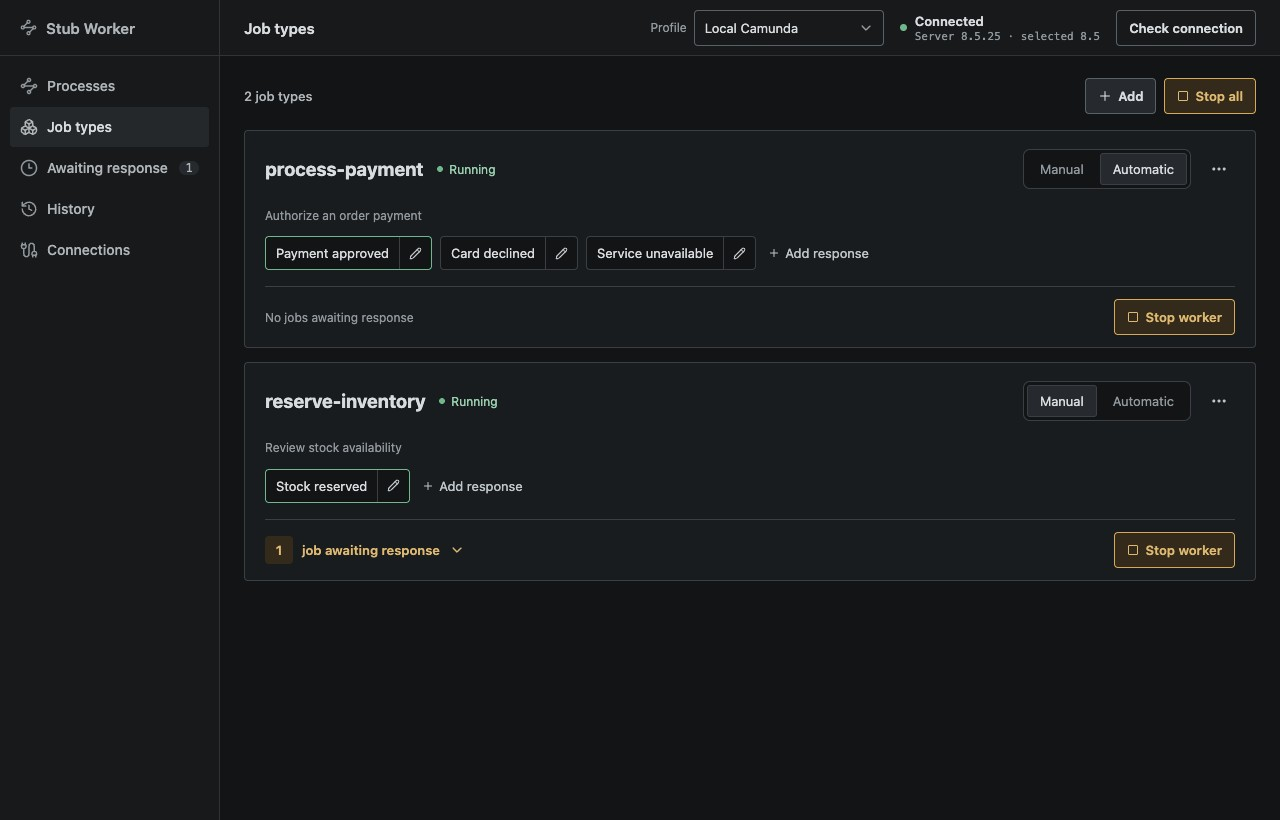
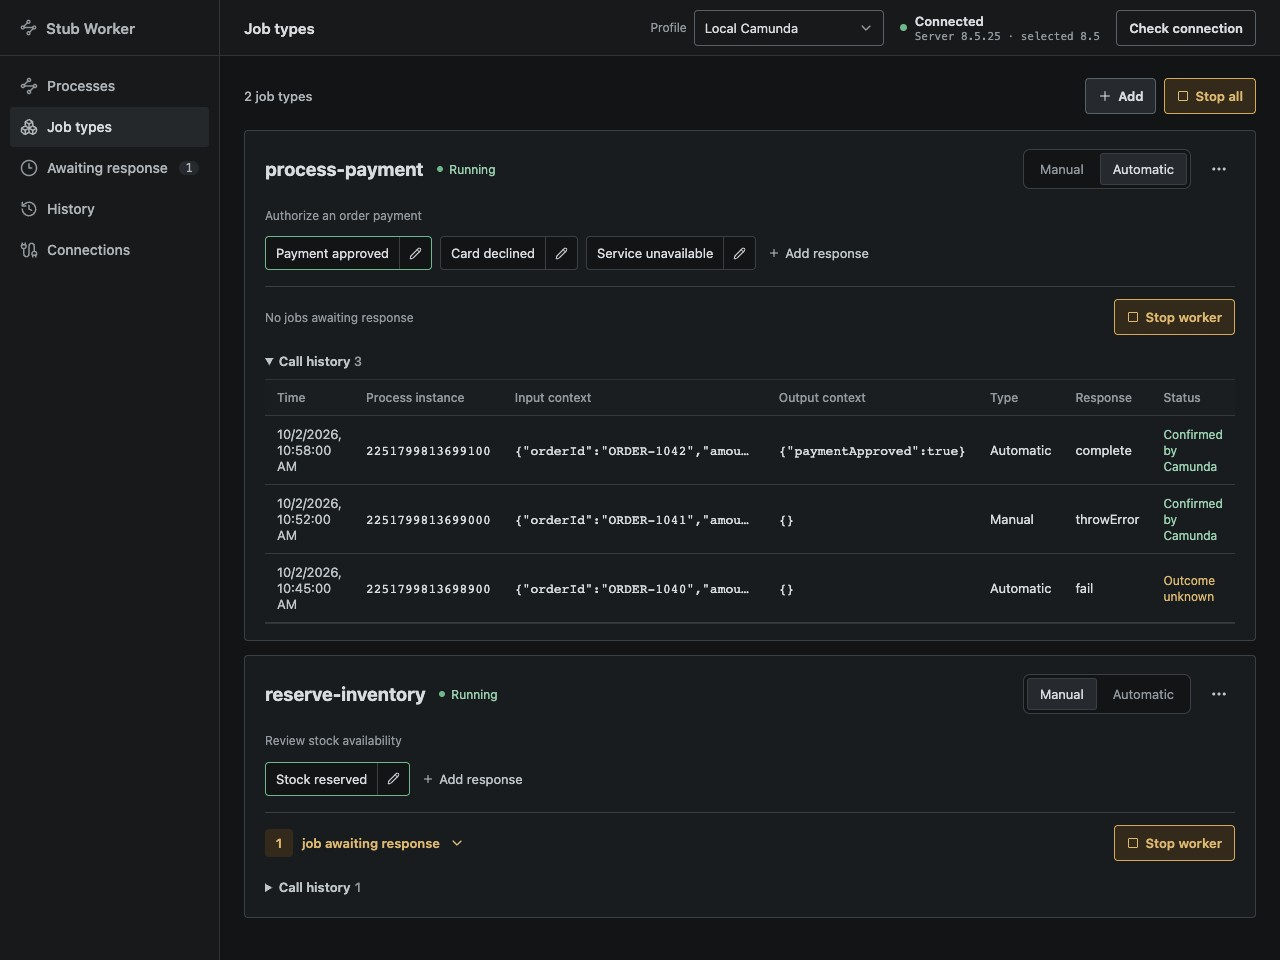
docs: prepare call history documentation for v0.8.0 (#27)

diff --git a/site/index.html b/site/index.html
@@ -24,7 +24,7 @@
         </div>
         <p class="platforms">macOS · Windows · Linux</p>
       </section>
-      <img class="screenshot" src="assets/processes.jpg" width="1280" height="960" alt="Processes screen after deploying a BPMN file without Operate, with shared responses for payment and inventory tasks">
+      <img class="screenshot" src="assets/processes.jpg" width="1280" height="1040" alt="Processes screen after deploying a BPMN file without Operate, with shared responses and call history controls for payment and inventory tasks">
       <div class="features">
         <p><strong>Choose the outcome.</strong> Return success, throw a business error, or simulate a technical failure.</p>
         <p><strong>Control the response.</strong> Run automatically or inspect and respond to jobs manually.</p>
@@ -40,6 +40,11 @@
         <h2 id="manual-title">Inspect a job before you respond.</h2>
         <p>Start manual workers directly from a process task or with Start all, even without saved responses. Review input variables and choose a saved response, or select Custom to edit response JSON before sending it. For automatic mode, add and select a saved response. Review response attempts in History.</p>
         <figure><img class="screenshot" src="assets/manual-response.jpg" width="1280" height="820" loading="lazy" alt="Awaiting response screen with order variables and an editable inventory response"><figcaption>Manual responses let you control the next step in your process.</figcaption></figure>
+      </section>
+      <section class="feature-section" aria-labelledby="history-title">
+        <h2 id="history-title">See what each worker received and sent.</h2>
+        <p>Expand Call history on a worker in Processes or Job types to review its latest 50 entries, including calls without a response attempt. See input and output variables, the process instance, response command, and send status. Select a row to inspect the activation and its send attempts.</p>
+        <figure><img class="screenshot" src="assets/job-types.jpg" width="1280" height="960" loading="lazy" alt="Job types screen with expanded payment call history showing input and output variables, response commands, and send statuses"><figcaption>Call history is shared by job type across the current connection. Use History to search and filter all retained records.</figcaption></figure>
       </section>
       <section class="feature-section" aria-labelledby="connections-title">
         <h2 id="connections-title">Set up your connection once.</h2>

diff --git a/.agents/skills/release-project/SKILL.md b/.agents/skills/release-project/SKILL.md
@@ -31,7 +31,7 @@ Inspect the actual screenshot images and compare them with the current app. Imag
 
 Refresh only stale or misleading screenshots. Capture the current app with illustrative sample data and masked credentials, using a disposable profile/database. Do not expose real tokens, passwords, or private process data. Use real UI captures, not generated imitations. Copy each refreshed image to both locations and check that the copies match. Update captions, alt text, and references if filenames or content change. If capture is unavailable, explain what remains unverified rather than claiming completion.
 
-Preview with `python3 -m http.server 4173 --directory site` from the repository root (choose another port if occupied). Inspect the rendered site at desktop and narrow widths, Markdown image references, navigation, relative asset URLs, and download links. The site needs no build step. Run `git diff --check`. For app changes or app-backed capture, use the relevant checks from CI: `npm ci`, `npm run check`, and `npm run build` in `frontend/`, and `go test -race ./...` at the root. Report checks actually run and any limitations.
+Preview with `python3 -m http.server 4173 --directory site` from the repository root (choose another port if occupied). Inspect the rendered site at desktop and narrow widths, Markdown image references, navigation, relative asset URLs, and download links. The site needs no build step. Run `git diff --check`. For app changes, use the relevant checks from CI: `npm ci`, `npm run check`, and `npm run build` in `frontend/`, and `go test -race ./...` at the root. When capturing an unchanged app, reuse a verified build or build what the capture needs; documentation and screenshot changes alone do not require repeating the full app check suite. Report checks actually run or reused and any limitations.
 
 ## 2. Present changes for user review
 
@@ -47,17 +47,21 @@ After approval, commit only the reviewed documentation and screenshot files, pus
 
 Keep following the PR until it is merged or a specific blocker needs user action. Use bounded CI polling so progress can still be communicated. Inspect failed job logs and fix failures caused by this PR within scope. Rerun a clearly transient failure once; do not loop on unchanged failures or modify product behavior just to obtain a green check.
 
-Before merging, verify that all required checks and the complete `build.yml` run succeeded for the latest PR head. Currently that means the test job and desktop builds for Windows x64, macOS x64, macOS arm64, and Linux x64. Pending, cancelled, missing, and failed checks are not success. Recheck after every new commit or conflict resolution. Honor required reviews and branch protection; never bypass them with an admin merge.
+Before merging, verify all checks required by branch protection for the latest PR head. Honor required reviews and branch protection; never bypass them with an admin merge. Pending, cancelled, missing, and failed required checks are not success.
+
+For changes affecting app source, dependencies, desktop build assets, or build/release workflows, require the complete `build.yml` run for the latest PR head: the test job and desktop builds for Windows x64, macOS x64, macOS arm64, and Linux x64. Recheck after every new commit or conflict resolution affecting those inputs.
+
+For documentation-only changes (prose, screenshots, the static promo site, or skill instructions), reuse a successful default-branch `build.yml` run instead of requiring another full app CI pass. Record its tested SHA and run URL, confirm its test job and all four desktop builds passed, and inspect the diff from that SHA to the proposed release source to prove that app and build inputs are unchanged. A build omitted by documentation path filters is expected and is not a blocker unless branch protection requires it. Do not change workflows or manufacture app edits just to trigger CI for documentation. If app or build inputs changed since the tested SHA, require a new passing build covering those changes.
 
 Merge using a repository-supported method and pin the expected PR head with `gh pr merge --match-head-commit <sha>` where available. Verify the PR is actually merged, recording its merge commit. If merge queues are required, follow the queue to completion. An enabled auto-merge setting is not a completed merge.
 
-Wait for the default-branch build covering the merged source. If site files changed, also verify the Pages deployment and live site update. If a deployment or CI failure persists, report its link and blocker before releasing. If no documentation PR was needed, apply the same CI verification to the default-branch source selected for release.
+After merging, verify app CI evidence for the default-branch release source using the rules above; reuse the recorded passing build when intervening changes are documentation-only. If site files changed, verify the Pages deployment and live site update. If a required deployment or CI failure persists, report its link and blocker before releasing. If no documentation PR was needed, apply the same CI verification to the default-branch source selected for release.
 
 ## 5. Dispatch and verify the release
 
 Re-read the remote release state immediately before dispatch. Confirm the chosen version is still the next minor/patch version and that its tag and release do not already exist. If another release advanced the baseline, recompute the version using the requested bump and announce the new value. Inspect any existing tag, draft, release, or in-progress run for the intended version before acting; resume a known attempt rather than overwriting an unrelated release.
 
-Confirm the default branch includes the documentation merge and that its current head has passing CI. The current workflow creates a new tag from the repository's default branch, even when a different dispatch ref is used. Check for branch movement, assess newly included changes for documentation accuracy, and wait for their CI before dispatching. Do not claim that specifying `--ref` pins the release source.
+Confirm the default branch includes the documentation merge and has the required checks and app CI evidence described in section 4. The current workflow creates a new tag from the repository's default branch, even when a different dispatch ref is used. Check for branch movement and assess newly included changes for documentation accuracy. Documentation-only movement can reuse the recorded passing app build; changes to app or build inputs require passing CI covering those changes before dispatching. Do not claim that specifying `--ref` pins the release source.
 
 With verified values substituted, run:
 

diff --git a/README.md b/README.md
@@ -17,6 +17,7 @@ Use it to explore happy paths, business errors, and technical failures while dev
 - **Run automatically** with a selected response and optional delay.
 - **Review jobs manually** before editing and sending a response.
 - **Inspect input variables and custom headers** for activated jobs.
+- **Review call history on each worker** in Processes or Job types, with input/output variables, response commands, and send status.
 - **Search response history** by job key, process instance, job type, outcome, status, or date.
 - **Switch between local Camunda profiles** and import or export their configuration as JSON.
 - **Save Operate authentication** with each connection: username/password, bearer token, or no authentication.
@@ -36,7 +37,7 @@ Responses and worker settings are shared by job type within a connection. Editin
 
 The task list comes from the selected BPMN definition - from Operate, or from the model you deployed from disk - including tasks in embedded subprocesses. Called processes are configured separately. Expression-based job types are shown but must be configured by their resolved value in **Job types**. Pending jobs are manual jobs activated by this app, filtered to the selected process definition version.
 
-![Job types and their configured response scenarios](docs/images/job-types.jpg)
+![Job types with configured response scenarios and expanded call history](docs/images/job-types.jpg)
 
 ### Automatic mode
 
@@ -59,6 +60,12 @@ Manual mode places activated jobs under **Awaiting response**. You can inspect t
 | Technical failure | Fails the job with a message, absolute remaining retry count, and retry backoff | Incidents, retries, and unavailable dependencies |
 
 For a technical failure, `remainingRetries` is the absolute retry count sent to Zeebe. Reusing the same positive value may cause the job to be activated repeatedly.
+
+### Call history
+
+Expand **Call history** on a configured worker in **Processes** or **Job types** to see its latest 50 entries, newest first. Each row shows the time, process instance key, input and output variables, automatic or manual mode, response command (`complete`, `throwError`, or `fail`), and send status. Calls without a response attempt also appear, including waiting, expired, and interrupted jobs.
+
+Select a row to inspect the activation's input variables and send attempts, including the response payload and any diagnostics. This history is shared by job type across the current connection, so a process task can show calls from other processes using the same worker. Use the sidebar **History** screen to search and filter the full retained history. **Clear completed** removes completed records from both views and preserves active jobs.
 
 ## Install
 
@@ -169,10 +176,10 @@ For deployment, select **GitHub Actions** in the repository's **Settings → Pag
 Dependencies are pinned in `go.mod` and `frontend/package-lock.json`:
 
 - Go **1.25.0**
-- Wails **2.15.0**
-- Svelte **5.57.0**, Vite **8.3.0**, and TypeScript **5.9.2**
+- Wails runtime **2.16.0**; the build workflows use CLI **2.15.0**
+- Svelte **5.57.1**, Vite **8.3.1**, and TypeScript **5.9.2**
 - Camunda Go client / Zeebe protocol **8.5.25**
-- `modernc.org/sqlite` **1.58.0** (pure Go; no system SQLite dependency)
+- `modernc.org/sqlite` **1.59.0** (pure Go; no system SQLite dependency)
 
 The UI uses CodeMirror for JSON editing, syntax highlighting, and validation. Update checks run in the background against published GitHub Releases and display an in-app download notification when a newer version is available.
 
@@ -228,7 +235,7 @@ Deploy the models from the app (**Processes → Deploy from file…** for each f
 ## Verification
 
 - `go test -race ./...` passes on macOS arm64.
-- `npm run check` and the production frontend build pass.
-- A Wails 2.15.0 macOS arm64 `.app` builds and receives an ad-hoc signature.
+- Frontend tests, `npm run check`, and the production frontend build pass.
+- A macOS arm64 `.app` builds with Wails CLI 2.15.0 and runtime 2.16.0 and receives an ad-hoc signature.
 - `go test -tags integration -run TestZeebe825Smoke -v ./integration` passes against Zeebe 8.5.25. It covers all three bundled models, a success result containing `9007199254740993`, a business error, `FailJob`, and `UpdateJobTimeout`.
 - Windows x64, macOS x64, and Linux x64 builds are delegated to native CI runners and have not been executed locally in this environment.
